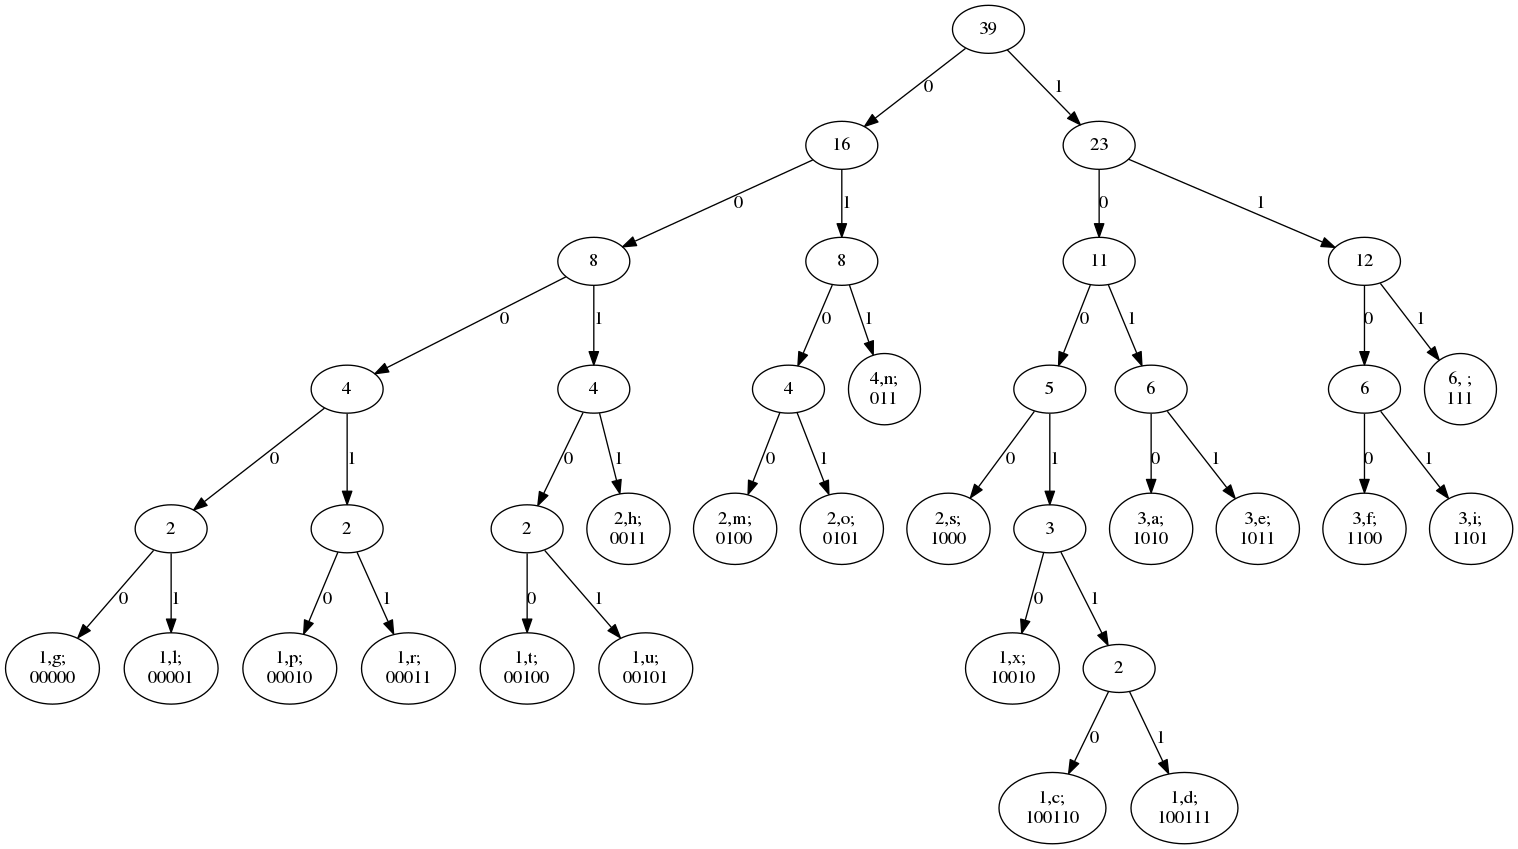
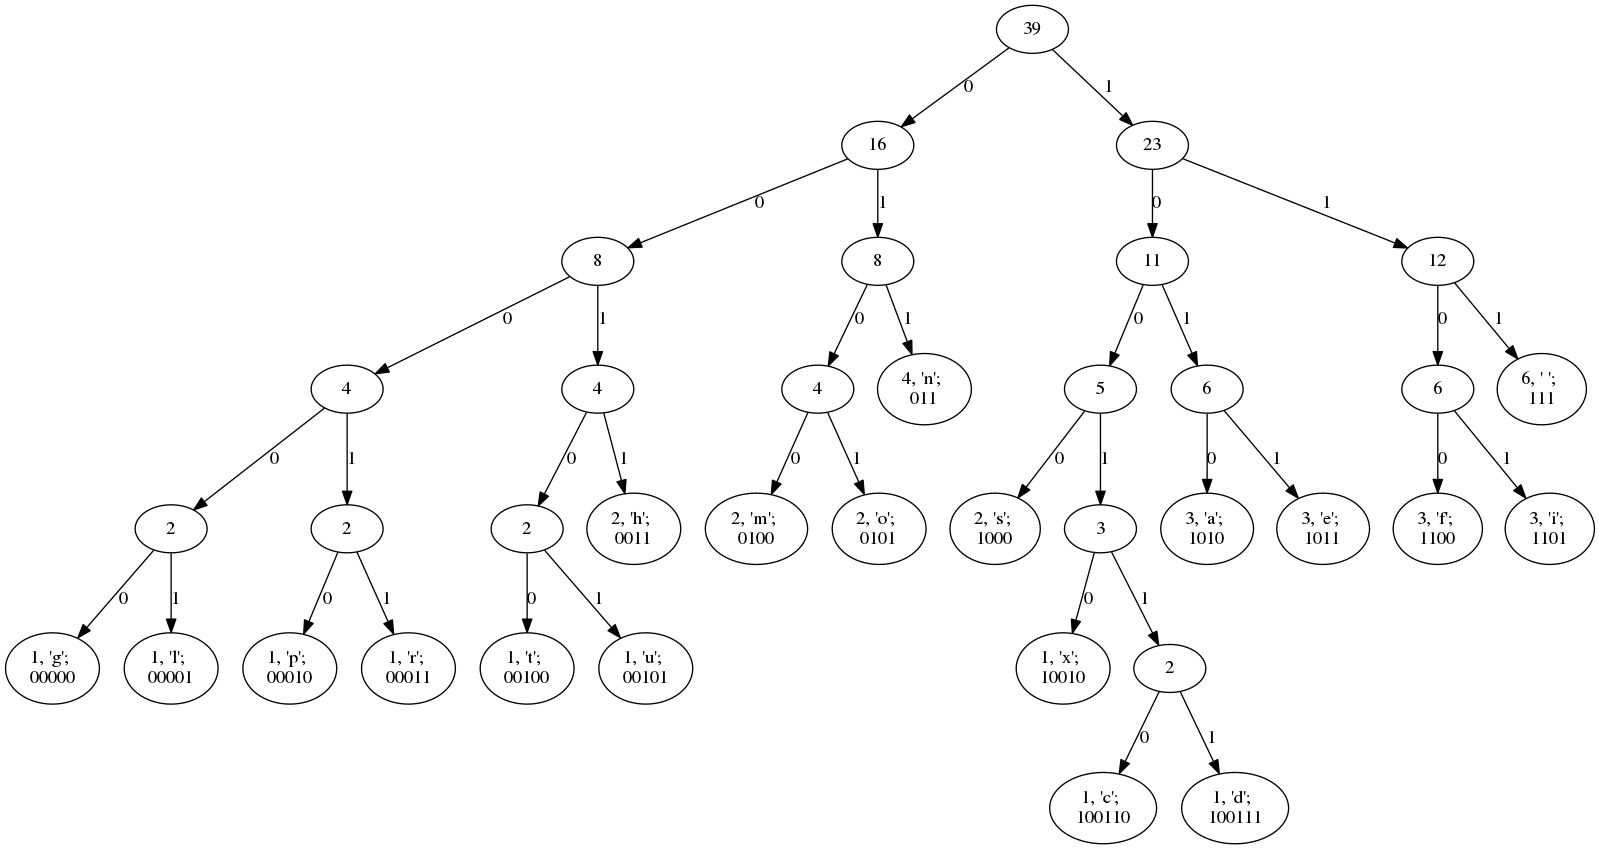
Ignoring tree representation as graph, and changes at graph representation
Changes at representation: Remove space visualization, change node graph
representation

diff --git a/huffman.py b/huffman.py
@@ -47,9 +47,9 @@ class HuffmanCoding(object):
 
         right = n+"1"
         # Each node has the symbol frecuency
-        graph.node(n,str(tree[0])+","\
+        graph.node(n,str(tree[0])+", \'"\
             # Symbol value if it is a leaf
-            +str(tree[1])+";\n"\
+            +(str(tree[1]))+"\'; \n"\
             # Symbol code if it is a leaf
             +n if not isinstance(tree[1],list) else str(tree[0]))
 

diff --git a/main.py b/main.py
@@ -35,8 +35,6 @@ txtin = TEST if txtin=="" else txtin
 txtout = txtin
 symb2freq = defaultdict(int)
 for ch in txtin:
-    if ch == "":
-        ch = "SPACE"
     symb2freq[ch] += 1
 
 start = time.time()
